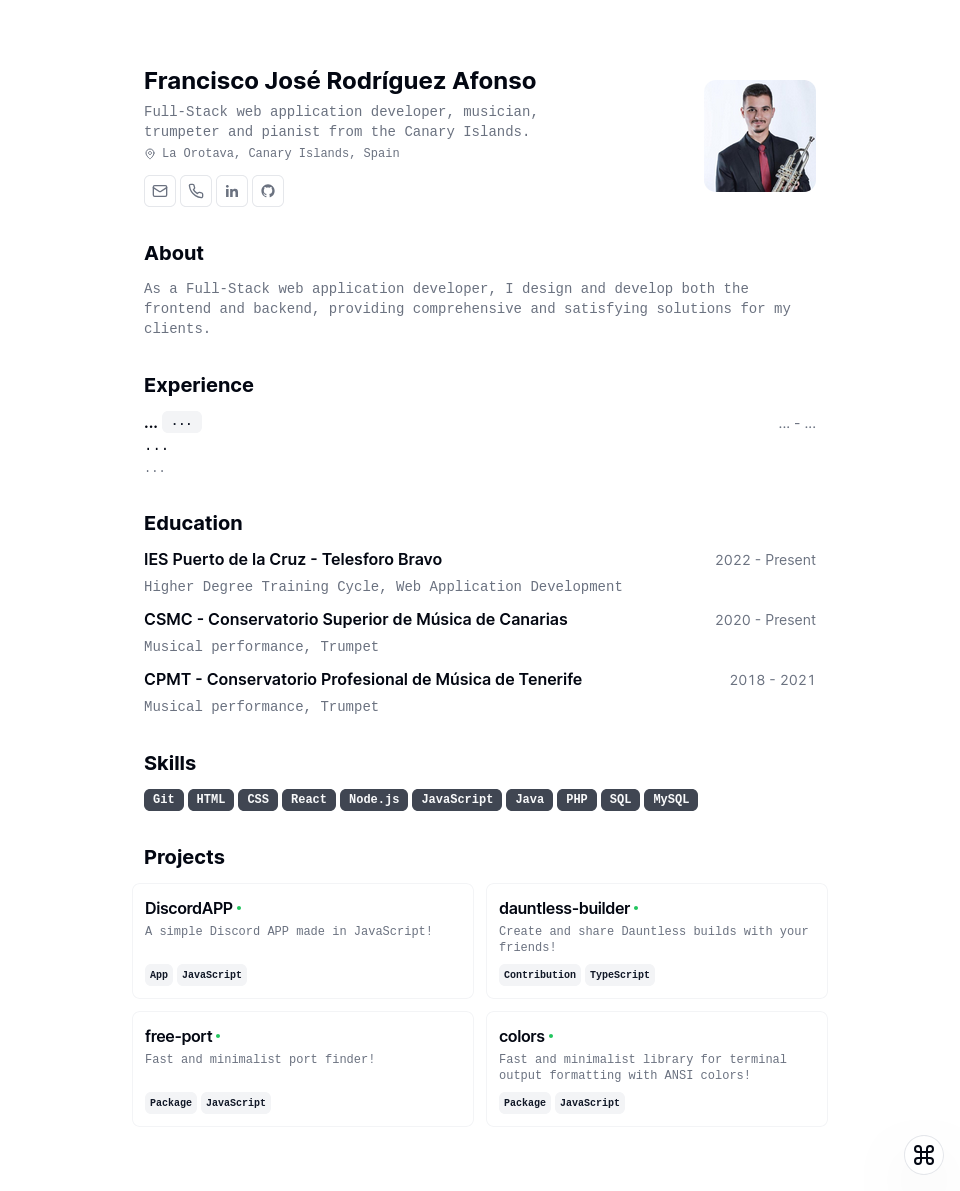
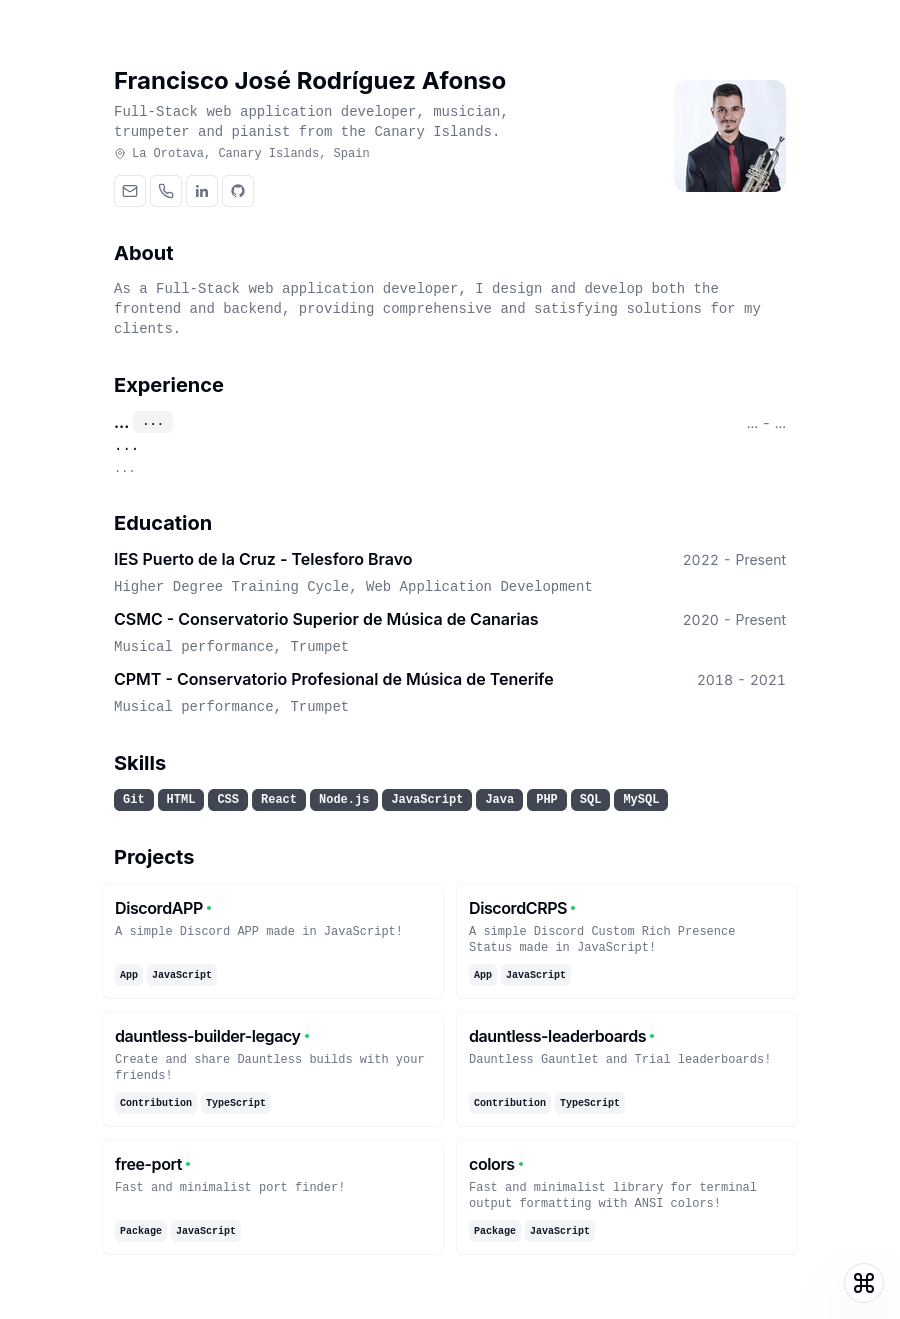
v11

diff --git a/App/src/data/resume.tsx b/App/src/data/resume.tsx
@@ -122,12 +122,12 @@ export const RESUME_DATA = {
       },
     },
     {
-      title: "dauntless-builder",
+      title: "dauntless-builder-legacy",
       techStack: ["Contribution", "TypeScript"],
       description: "Create and share Dauntless builds with your friends!",
       link: {
         label: "github.com",
-        href: "https://github.com/atomicptr/dauntless-builder",
+        href: "https://github.com/atomicptr/dauntless-builder-legacy",
       },
     },
     {
@@ -137,24 +137,6 @@ export const RESUME_DATA = {
       link: {
         label: "github.com",
         href: "https://github.com/PierreYvesFlamand/Dauntless-Leaderboards",
-      },
-    },
-    {
-      title: "Website",
-      techStack: ["App", "JavaScript"],
-      description: "My professional minimalist website!",
-      link: {
-        label: "github.com",
-        href: "https://github.com/FJrodafo/Website",
-      },
-    },
-    {
-      title: "CV",
-      techStack: ["App", "TypeScript"],
-      description: "My professional minimalist curriculum vitae!",
-      link: {
-        label: "github.com",
-        href: "https://github.com/FJrodafo/CV",
       },
     },
     {

diff --git a/CHANGELOG.md b/CHANGELOG.md
@@ -1,4 +1,7 @@
 ```
+* Commit: 50959a7 - v10
+| Author: FJrodafo - Sun, 6 Oct 2024 19:35:14 +0100
+| 
 * Commit: 48c11e0 - v9
 | Author: FJrodafo - Mon, 26 Aug 2024 20:01:36 +0100
 | 

diff --git a/VERSION.md b/VERSION.md
@@ -1,1 +1,1 @@
-`v10`
+`v11`
